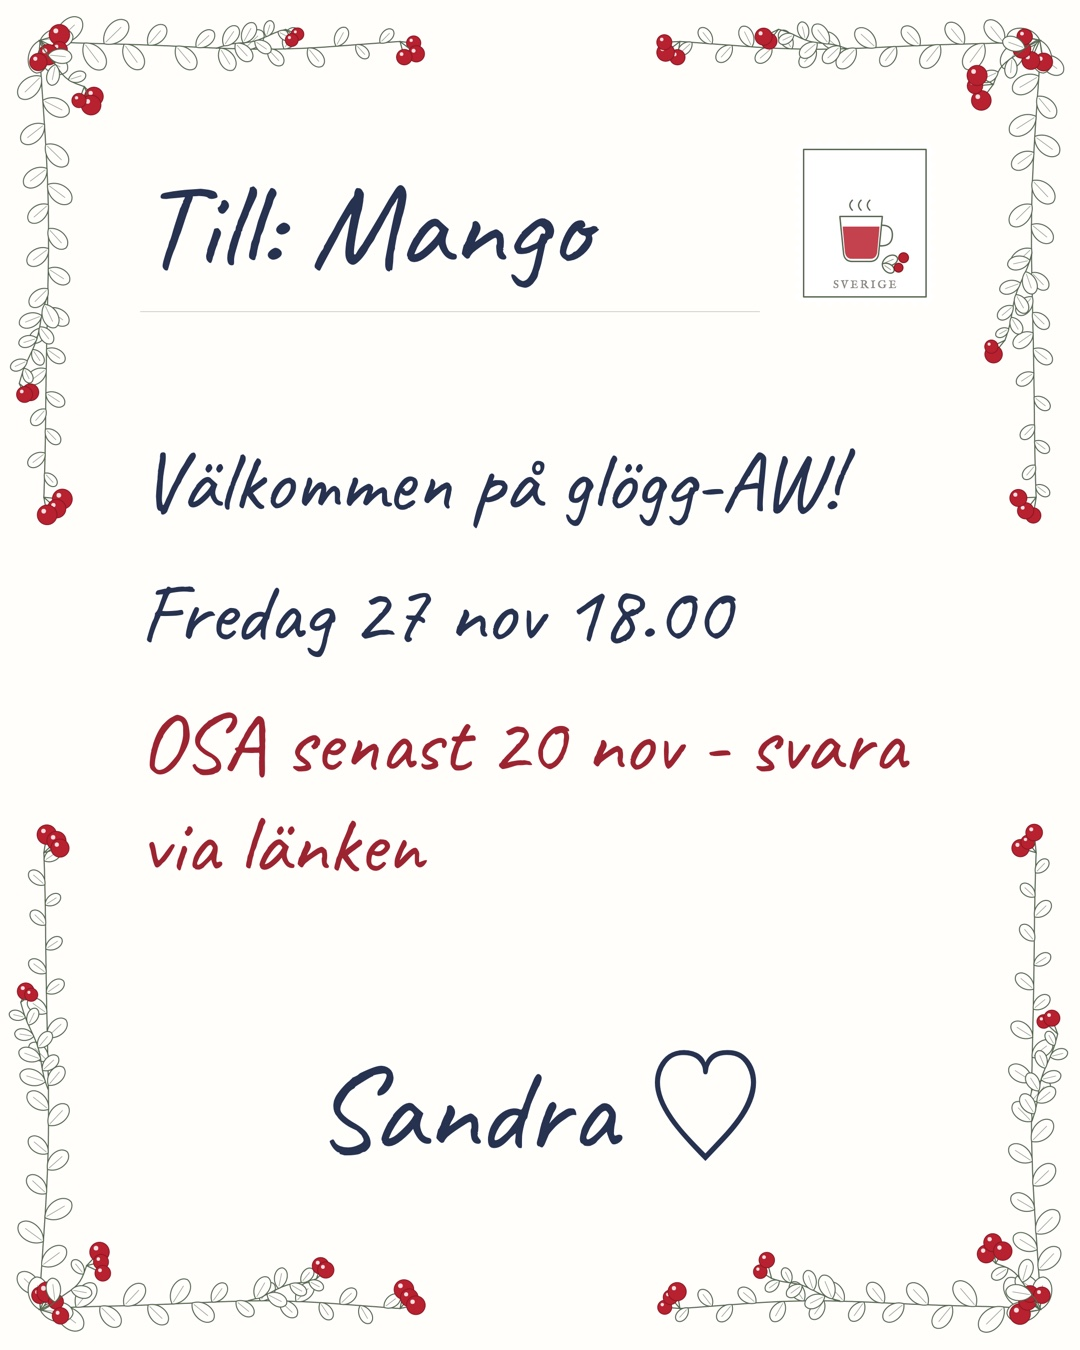
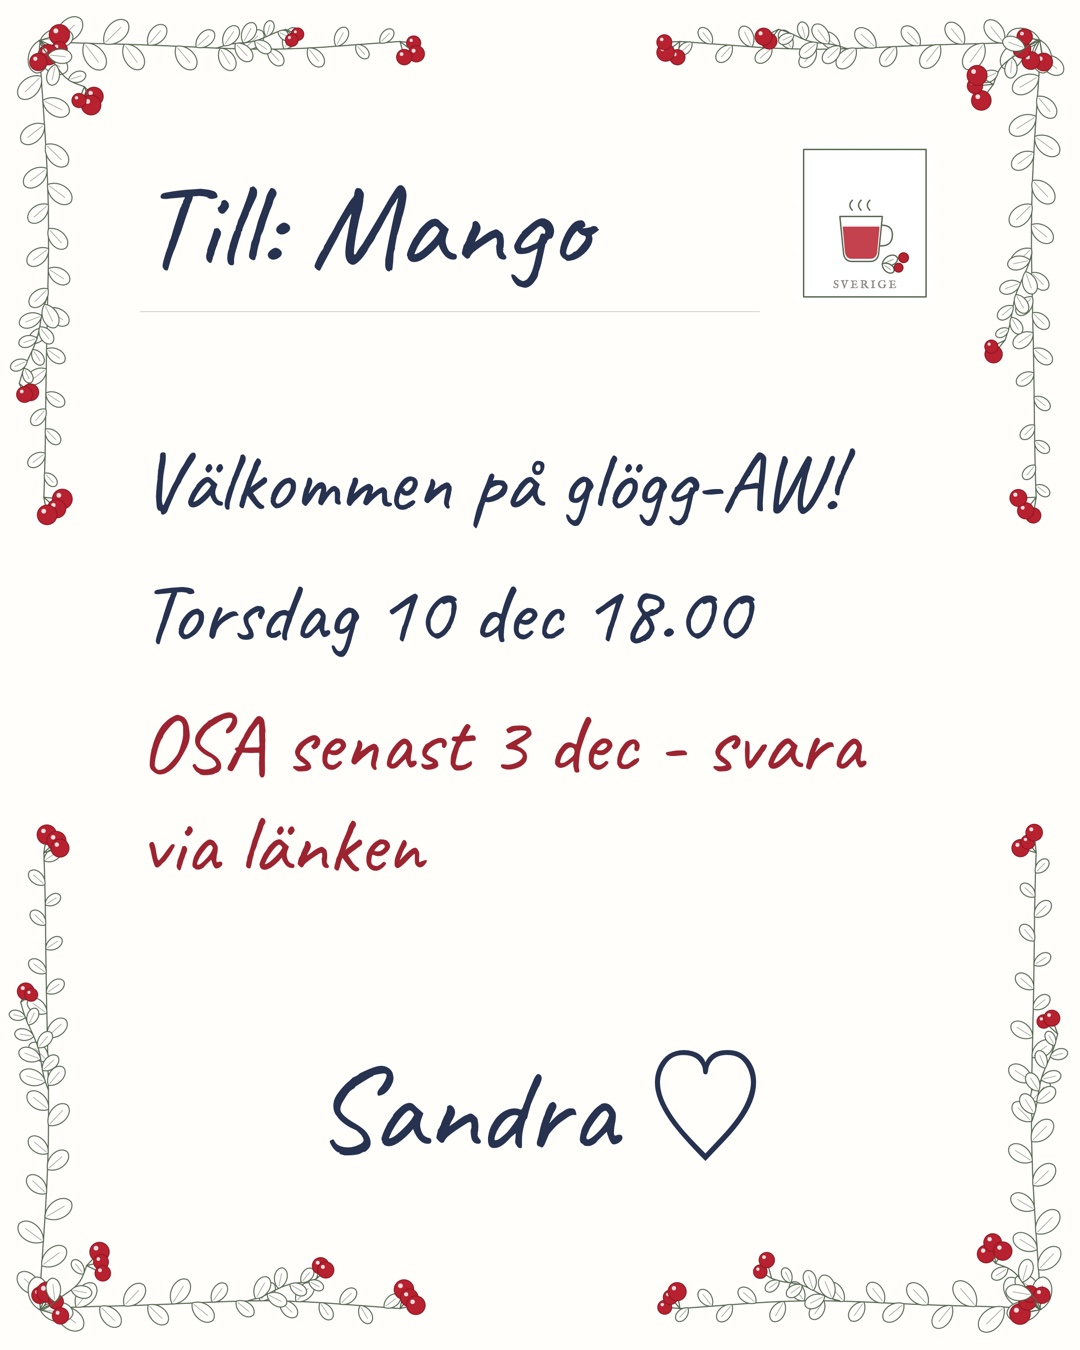
New date: Thursday 10 December 18.00, OSA by 3 December

Changed region(s): [[0.1222, 0.4356, 0.7028, 0.4978], [0.4583, 0.5289, 0.8556, 0.5911]]

diff --git a/app.js b/app.js
@@ -6,11 +6,11 @@
 // door code only to guests who have said yes. Without API the page keeps answers in this browser.
 const API = 'https://script.google.com/macros/s/AKfycbzq9BSsHxZs75XvONxqytS1da_rezUmx9V-U6BnQAuQjEaupzPpaZvo91zQ26lNmsfk/exec';
 
-const EVENT = { start: '20261127T180000', end: '20261127T220000', address: 'Hagagatan 50A, Stockholm' };
+const EVENT = { start: '20261210T180000', end: '20261210T220000', address: 'Hagagatan 50A, Stockholm' };
 const T = {
   sv: {
-    to: 'Till', you: 'dig ♡', msg: 'Välkommen på <span class="nw">glögg-AW!</span>', when: 'Fredag 27 nov 18.00',
-    osa: 'OSA senast 20 nov', yes: 'Ja, jag kommer!', no: 'Nej, tyvärr',
+    to: 'Till', you: 'dig ♡', msg: 'Välkommen på <span class="nw">glögg-AW!</span>', when: 'Torsdag 10 dec 18.00',
+    osa: 'OSA senast 3 dec', yes: 'Ja, jag kommer!', no: 'Nej, tyvärr',
     saidNo: 'Tråkigt! Tack för att du svarade.',
     more: 'Adress och portkod', address: 'Adress', door: 'Portkod', map: 'Visa på karta',
     cal: 'Lägg till i kalendern', calTitle: 'Glögg-AW hos Sandra', change: 'Ändra svar',
@@ -19,8 +19,8 @@ const T = {
     other: 'In English',
   },
   en: {
-    to: 'To', you: 'you ♡', msg: 'Welcome to glögg after work!', when: 'Friday 27 Nov 6 pm',
-    osa: 'RSVP by 20 Nov', yes: 'Yes, I’m coming!', no: 'Sorry, I can’t',
+    to: 'To', you: 'you ♡', msg: 'Welcome to glögg after work!', when: 'Thursday 10 Dec 6 pm',
+    osa: 'RSVP by 3 Dec', yes: 'Yes, I’m coming!', no: 'Sorry, I can’t',
     saidNo: 'What a shame! Thanks for letting me know.',
     more: 'Address and door code', address: 'Address', door: 'Door code', map: 'Show on map',
     cal: 'Add to calendar', calTitle: 'Glögg after work at Sandra’s', change: 'Change answer',

diff --git a/t/sandra-stmfy/index.html b/t/sandra-stmfy/index.html
@@ -7,7 +7,7 @@
 <meta name="robots" content="noindex">
 <meta property="og:type" content="website">
 <meta property="og:title" content="Klicka för att OSA">
-<meta property="og:image" content="https://sandragrennard-hash.github.io/glogg/t/sandra-stmfy/card.jpg?v=1793719823">
+<meta property="og:image" content="https://sandragrennard-hash.github.io/glogg/t/sandra-stmfy/card.jpg?v=1793958783">
 <meta property="og:image:width" content="1080">
 <meta property="og:image:height" content="1350">
 <meta name="theme-color" content="#fffefb">
@@ -15,11 +15,11 @@
 <link rel="preconnect" href="https://fonts.googleapis.com">
 <link href="https://fonts.googleapis.com/css2?family=Caveat:wght@400;500&family=IM+Fell+English+SC&display=swap" rel="stylesheet">
 <link rel="stylesheet" href="/glogg/style.css">
-<link rel="stylesheet" href="/glogg/page.css?v=6">
+<link rel="stylesheet" href="/glogg/page.css?v=7">
 </head>
 <body>
 <main id="sheet"><div id="app"></div></main>
-<script src="/glogg/lingon.js?v=6"></script>
-<script src="/glogg/app.js?v=6"></script>
+<script src="/glogg/lingon.js?v=7"></script>
+<script src="/glogg/app.js?v=7"></script>
 </body>
 </html>

diff --git a/t/tobias-wr3f8/index.html b/t/tobias-wr3f8/index.html
@@ -7,7 +7,7 @@
 <meta name="robots" content="noindex">
 <meta property="og:type" content="website">
 <meta property="og:title" content="Klicka för att OSA">
-<meta property="og:image" content="https://sandragrennard-hash.github.io/glogg/t/tobias-wr3f8/card.jpg?v=1793719824">
+<meta property="og:image" content="https://sandragrennard-hash.github.io/glogg/t/tobias-wr3f8/card.jpg?v=1793958784">
 <meta property="og:image:width" content="1080">
 <meta property="og:image:height" content="1350">
 <meta name="theme-color" content="#fffefb">
@@ -15,11 +15,11 @@
 <link rel="preconnect" href="https://fonts.googleapis.com">
 <link href="https://fonts.googleapis.com/css2?family=Caveat:wght@400;500&family=IM+Fell+English+SC&display=swap" rel="stylesheet">
 <link rel="stylesheet" href="/glogg/style.css">
-<link rel="stylesheet" href="/glogg/page.css?v=6">
+<link rel="stylesheet" href="/glogg/page.css?v=7">
 </head>
 <body>
 <main id="sheet"><div id="app"></div></main>
-<script src="/glogg/lingon.js?v=6"></script>
-<script src="/glogg/app.js?v=6"></script>
+<script src="/glogg/lingon.js?v=7"></script>
+<script src="/glogg/app.js?v=7"></script>
 </body>
 </html>

diff --git a/t/katja-z2nyh/index.html b/t/katja-z2nyh/index.html
@@ -7,7 +7,7 @@
 <meta name="robots" content="noindex">
 <meta property="og:type" content="website">
 <meta property="og:title" content="Klicka för att OSA">
-<meta property="og:image" content="https://sandragrennard-hash.github.io/glogg/t/katja-z2nyh/card.jpg?v=1793719825">
+<meta property="og:image" content="https://sandragrennard-hash.github.io/glogg/t/katja-z2nyh/card.jpg?v=1793958785">
 <meta property="og:image:width" content="1080">
 <meta property="og:image:height" content="1350">
 <meta name="theme-color" content="#fffefb">
@@ -15,11 +15,11 @@
 <link rel="preconnect" href="https://fonts.googleapis.com">
 <link href="https://fonts.googleapis.com/css2?family=Caveat:wght@400;500&family=IM+Fell+English+SC&display=swap" rel="stylesheet">
 <link rel="stylesheet" href="/glogg/style.css">
-<link rel="stylesheet" href="/glogg/page.css?v=6">
+<link rel="stylesheet" href="/glogg/page.css?v=7">
 </head>
 <body>
 <main id="sheet"><div id="app"></div></main>
-<script src="/glogg/lingon.js?v=6"></script>
-<script src="/glogg/app.js?v=6"></script>
+<script src="/glogg/lingon.js?v=7"></script>
+<script src="/glogg/app.js?v=7"></script>
 </body>
 </html>

diff --git a/t/mango-d2zn7/index.html b/t/mango-d2zn7/index.html
@@ -7,7 +7,7 @@
 <meta name="robots" content="noindex">
 <meta property="og:type" content="website">
 <meta property="og:title" content="Klicka för att OSA">
-<meta property="og:image" content="https://sandragrennard-hash.github.io/glogg/t/mango-d2zn7/card.jpg?v=1793719829">
+<meta property="og:image" content="https://sandragrennard-hash.github.io/glogg/t/mango-d2zn7/card.jpg?v=1793958789">
 <meta property="og:image:width" content="1080">
 <meta property="og:image:height" content="1350">
 <meta name="theme-color" content="#fffefb">
@@ -15,11 +15,11 @@
 <link rel="preconnect" href="https://fonts.googleapis.com">
 <link href="https://fonts.googleapis.com/css2?family=Caveat:wght@400;500&family=IM+Fell+English+SC&display=swap" rel="stylesheet">
 <link rel="stylesheet" href="/glogg/style.css">
-<link rel="stylesheet" href="/glogg/page.css?v=6">
+<link rel="stylesheet" href="/glogg/page.css?v=7">
 </head>
 <body>
 <main id="sheet"><div id="app"></div></main>
-<script src="/glogg/lingon.js?v=6"></script>
-<script src="/glogg/app.js?v=6"></script>
+<script src="/glogg/lingon.js?v=7"></script>
+<script src="/glogg/app.js?v=7"></script>
 </body>
 </html>

diff --git a/t/namrata-gutby/index.html b/t/namrata-gutby/index.html
@@ -7,7 +7,7 @@
 <meta name="robots" content="noindex">
 <meta property="og:type" content="website">
 <meta property="og:title" content="Click to RSVP">
-<meta property="og:image" content="https://sandragrennard-hash.github.io/glogg/t/namrata-gutby/card.jpg?v=1793719828">
+<meta property="og:image" content="https://sandragrennard-hash.github.io/glogg/t/namrata-gutby/card.jpg?v=1793958788">
 <meta property="og:image:width" content="1080">
 <meta property="og:image:height" content="1350">
 <meta name="theme-color" content="#fffefb">
@@ -15,11 +15,11 @@
 <link rel="preconnect" href="https://fonts.googleapis.com">
 <link href="https://fonts.googleapis.com/css2?family=Caveat:wght@400;500&family=IM+Fell+English+SC&display=swap" rel="stylesheet">
 <link rel="stylesheet" href="/glogg/style.css">
-<link rel="stylesheet" href="/glogg/page.css?v=6">
+<link rel="stylesheet" href="/glogg/page.css?v=7">
 </head>
 <body>
 <main id="sheet"><div id="app"></div></main>
-<script src="/glogg/lingon.js?v=6"></script>
-<script src="/glogg/app.js?v=6"></script>
+<script src="/glogg/lingon.js?v=7"></script>
+<script src="/glogg/app.js?v=7"></script>
 </body>
 </html>

diff --git a/t/natasa-8u5a9/index.html b/t/natasa-8u5a9/index.html
@@ -7,7 +7,7 @@
 <meta name="robots" content="noindex">
 <meta property="og:type" content="website">
 <meta property="og:title" content="Click to RSVP">
-<meta property="og:image" content="https://sandragrennard-hash.github.io/glogg/t/natasa-8u5a9/card.jpg?v=1793719827">
+<meta property="og:image" content="https://sandragrennard-hash.github.io/glogg/t/natasa-8u5a9/card.jpg?v=1793958787">
 <meta property="og:image:width" content="1080">
 <meta property="og:image:height" content="1350">
 <meta name="theme-color" content="#fffefb">
@@ -15,11 +15,11 @@
 <link rel="preconnect" href="https://fonts.googleapis.com">
 <link href="https://fonts.googleapis.com/css2?family=Caveat:wght@400;500&family=IM+Fell+English+SC&display=swap" rel="stylesheet">
 <link rel="stylesheet" href="/glogg/style.css">
-<link rel="stylesheet" href="/glogg/page.css?v=6">
+<link rel="stylesheet" href="/glogg/page.css?v=7">
 </head>
 <body>
 <main id="sheet"><div id="app"></div></main>
-<script src="/glogg/lingon.js?v=6"></script>
-<script src="/glogg/app.js?v=6"></script>
+<script src="/glogg/lingon.js?v=7"></script>
+<script src="/glogg/app.js?v=7"></script>
 </body>
 </html>

diff --git a/t/paolo-6a75h/index.html b/t/paolo-6a75h/index.html
@@ -7,7 +7,7 @@
 <meta name="robots" content="noindex">
 <meta property="og:type" content="website">
 <meta property="og:title" content="Click to RSVP">
-<meta property="og:image" content="https://sandragrennard-hash.github.io/glogg/t/paolo-6a75h/card.jpg?v=1793719830">
+<meta property="og:image" content="https://sandragrennard-hash.github.io/glogg/t/paolo-6a75h/card.jpg?v=1793958789">
 <meta property="og:image:width" content="1080">
 <meta property="og:image:height" content="1350">
 <meta name="theme-color" content="#fffefb">
@@ -15,11 +15,11 @@
 <link rel="preconnect" href="https://fonts.googleapis.com">
 <link href="https://fonts.googleapis.com/css2?family=Caveat:wght@400;500&family=IM+Fell+English+SC&display=swap" rel="stylesheet">
 <link rel="stylesheet" href="/glogg/style.css">
-<link rel="stylesheet" href="/glogg/page.css?v=6">
+<link rel="stylesheet" href="/glogg/page.css?v=7">
 </head>
 <body>
 <main id="sheet"><div id="app"></div></main>
-<script src="/glogg/lingon.js?v=6"></script>
-<script src="/glogg/app.js?v=6"></script>
+<script src="/glogg/lingon.js?v=7"></script>
+<script src="/glogg/app.js?v=7"></script>
 </body>
 </html>

diff --git a/t/sveta-nnu32/index.html b/t/sveta-nnu32/index.html
@@ -7,7 +7,7 @@
 <meta name="robots" content="noindex">
 <meta property="og:type" content="website">
 <meta property="og:title" content="Click to RSVP">
-<meta property="og:image" content="https://sandragrennard-hash.github.io/glogg/t/sveta-nnu32/card.jpg?v=1793719826">
+<meta property="og:image" content="https://sandragrennard-hash.github.io/glogg/t/sveta-nnu32/card.jpg?v=1793958786">
 <meta property="og:image:width" content="1080">
 <meta property="og:image:height" content="1350">
 <meta name="theme-color" content="#fffefb">
@@ -15,11 +15,11 @@
 <link rel="preconnect" href="https://fonts.googleapis.com">
 <link href="https://fonts.googleapis.com/css2?family=Caveat:wght@400;500&family=IM+Fell+English+SC&display=swap" rel="stylesheet">
 <link rel="stylesheet" href="/glogg/style.css">
-<link rel="stylesheet" href="/glogg/page.css?v=6">
+<link rel="stylesheet" href="/glogg/page.css?v=7">
 </head>
 <body>
 <main id="sheet"><div id="app"></div></main>
-<script src="/glogg/lingon.js?v=6"></script>
-<script src="/glogg/app.js?v=6"></script>
+<script src="/glogg/lingon.js?v=7"></script>
+<script src="/glogg/app.js?v=7"></script>
 </body>
 </html>

diff --git a/t/jean-bzprr/index.html b/t/jean-bzprr/index.html
@@ -7,7 +7,7 @@
 <meta name="robots" content="noindex">
 <meta property="og:type" content="website">
 <meta property="og:title" content="Click to RSVP">
-<meta property="og:image" content="https://sandragrennard-hash.github.io/glogg/t/jean-bzprr/card.jpg?v=1793719831">
+<meta property="og:image" content="https://sandragrennard-hash.github.io/glogg/t/jean-bzprr/card.jpg?v=1793958790">
 <meta property="og:image:width" content="1080">
 <meta property="og:image:height" content="1350">
 <meta name="theme-color" content="#fffefb">
@@ -15,11 +15,11 @@
 <link rel="preconnect" href="https://fonts.googleapis.com">
 <link href="https://fonts.googleapis.com/css2?family=Caveat:wght@400;500&family=IM+Fell+English+SC&display=swap" rel="stylesheet">
 <link rel="stylesheet" href="/glogg/style.css">
-<link rel="stylesheet" href="/glogg/page.css?v=6">
+<link rel="stylesheet" href="/glogg/page.css?v=7">
 </head>
 <body>
 <main id="sheet"><div id="app"></div></main>
-<script src="/glogg/lingon.js?v=6"></script>
-<script src="/glogg/app.js?v=6"></script>
+<script src="/glogg/lingon.js?v=7"></script>
+<script src="/glogg/app.js?v=7"></script>
 </body>
 </html>

diff --git a/en/index.html b/en/index.html
@@ -7,7 +7,7 @@
 <meta name="robots" content="noindex">
 <meta property="og:type" content="website">
 <meta property="og:title" content="Click to RSVP">
-<meta property="og:image" content="https://sandragrennard-hash.github.io/glogg/card-en.jpg?v=12">
+<meta property="og:image" content="https://sandragrennard-hash.github.io/glogg/card-en.jpg?v=13">
 <meta property="og:image:width" content="1080">
 <meta property="og:image:height" content="1350">
 <meta name="theme-color" content="#fffefb">
@@ -15,11 +15,11 @@
 <link rel="preconnect" href="https://fonts.googleapis.com">
 <link href="https://fonts.googleapis.com/css2?family=Caveat:wght@400;500&family=IM+Fell+English+SC&display=swap" rel="stylesheet">
 <link rel="stylesheet" href="../style.css">
-<link rel="stylesheet" href="../page.css?v=6">
+<link rel="stylesheet" href="../page.css?v=7">
 </head>
 <body>
 <main id="sheet"><div id="app"></div></main>
-<script src="../lingon.js?v=6"></script>
-<script src="../app.js?v=6"></script>
+<script src="../lingon.js?v=7"></script>
+<script src="../app.js?v=7"></script>
 </body>
 </html>

diff --git a/index.html b/index.html
@@ -7,7 +7,7 @@
 <meta name="robots" content="noindex">
 <meta property="og:type" content="website">
 <meta property="og:title" content="Klicka för att OSA">
-<meta property="og:image" content="https://sandragrennard-hash.github.io/glogg/card-sv.jpg?v=12">
+<meta property="og:image" content="https://sandragrennard-hash.github.io/glogg/card-sv.jpg?v=13">
 <meta property="og:image:width" content="1080">
 <meta property="og:image:height" content="1350">
 <meta name="theme-color" content="#fffefb">
@@ -15,11 +15,11 @@
 <link rel="preconnect" href="https://fonts.googleapis.com">
 <link href="https://fonts.googleapis.com/css2?family=Caveat:wght@400;500&family=IM+Fell+English+SC&display=swap" rel="stylesheet">
 <link rel="stylesheet" href="style.css">
-<link rel="stylesheet" href="page.css?v=6">
+<link rel="stylesheet" href="page.css?v=7">
 </head>
 <body>
 <main id="sheet"><div id="app"></div></main>
-<script src="lingon.js?v=6"></script>
-<script src="app.js?v=6"></script>
+<script src="lingon.js?v=7"></script>
+<script src="app.js?v=7"></script>
 </body>
 </html>
